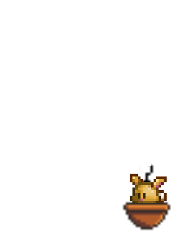
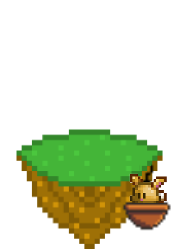
Added in images for all categories, along with unoptimized jQuery functions that allow users to try on items

Changed region(s): [[0.0852, 0.502, 0.9375, 1.0]]

diff --git a/public/js/shop.js b/public/js/shop.js
@@ -1,28 +1,129 @@
+
+// var bg = ["city.png", "darkblue.png", "night.png", "pixelatedbg.png", "sunset.png"];
+
+var url = "../images/";
+var active ="avatar";
+
 $(document).ready(() => {
 	/** On page load, plays avatar animation */
 	window.onload = function() {     
 		$('#avatar').toggleClass('bounceIn');
   };
 
-	$('#shopAvatar').click(() =>{
-		$('#shopPlatform').css("background-color", "rgba(255,255,255, 0.75)");
-		$('#shopBackground').css("background-color", "rgba(255,255,255, 0.75)");
-		$('#shopAvatar').css("background-color", "#9CD6D6");
-		
-	})  
+/** THIS CODE IS VERY BRUTE FORCE. WILL OPTIMIZE LATER (PROBABLY LOL DEPENDS ON TIME) <3 STELLA */
+$('#shopBackground').click(() => {
+	$('#shopPlatform').css("background-color", "rgba(255,255,255, 0.75)");
+	$('#shopAvatar').css("background-color", "rgba(255,255,255, 0.75)");
+	$('#shopBackground').css("background-color", "#48748E");
+	$('#item1').attr("src", "../images/bg/default.png");
+	$('#item2').attr("src", "../images/bg/city.png");
+	$('#item3').attr("src", "../images/bg/darkblue.png");
+	$('#item4').attr("src", "../images/bg/night.png");
+	$('#item5').attr("src", "../images/bg/pixelatedbg.png");
+	$('#item6').attr("src", "../images/bg/sunset.png");
+	active = "bg";
+})
 
-	$('#shopPlatform').click(() => {
-		$('#shopAvatar').css("background-color", "rgba(255,255,255, 0.75)");
-		$('#shopBackground').css("background-color", "rgba(255,255,255, 0.75)");
-		$('#shopPlatform').css("background-color", "#9CD6D6");
-		
-	})
+$('#shopAvatar').click(() =>{
+	$('#shopPlatform').css("background-color", "rgba(255,255,255, 0.75)");
+	$('#shopBackground').css("background-color", "rgba(255,255,255, 0.75)");
+	$('#shopAvatar').css("background-color", "#48748E");
+	$('#item1').attr("src", "../images/avatar/default.png");
+	$('#item2').attr("src", "../images/avatar/greenChar.png");
+	$('#item3').attr("src", "../images/avatar/greyChar.png");
+	$('#item4').attr("src", "../images/avatar/redChar.png");
+	$('#item5').attr("src", "../images/avatar/yellowChar.png");
+	$('#item6').attr("src", "../images/avatar/blueChar.png");
+	active ="avatar";
+})  
 
-	$('#shopBackground').click(() => {
-		$('#shopPlatform').css("background-color", "rgba(255,255,255, 0.75)");
-		$('#shopAvatar').css("background-color", "rgba(255,255,255, 0.75)");
-		$('#shopBackground').css("background-color", "#9CD6D6");
-		
-	})
+$('#shopPlatform').click(() => {
+	$('#shopAvatar').css("background-color", "rgba(255,255,255, 0.75)");
+	$('#shopBackground').css("background-color", "rgba(255,255,255, 0.75)");
+	$('#shopPlatform').css("background-color", "#48748E");
+	$('#item1').attr("src", "../images/platform/default.png");
+	$('#item2').attr("src", "../images/platform/pinkplatform.png");
+	$('#item3').attr("src", "../images/platform/purpleplatform.png");
+	$('#item4').attr("src", "../images/platform/rabbitpet.png");
+	$('#item5').attr("src", "../images/platform/duckpet.png");
+	$('#item6').attr("src", "../images/platform/birdpet.png");
+	active ="platform";
+})
+
+$('#item1').click(() => {
+	clearSelect();
+	$('#item1').parent().css("background-color", "#48748E");
+	if(active == "avatar")
+		$("#char").prop("src", "../images/avatar/default.png");
+	else if (active == "platform")
+		$("#char").css("background-image", "url(../images/platform/default.png)");
+	else if (active == "bg")
+		$("body").css("background-image", "url(../images/bg/default.png)");
+})
+
+$('#item2').click(() => {
+	clearSelect();
+	$('#item2').parent().css("background-color", "#48748E");
+	if(active == "avatar")
+		$("#char").prop("src", "../images/avatar/greenChar.png");
+	else if (active == "platform")
+		$("#char").css("background-image", "url(../images/platform/pinkplatform.png)");
+	else if (active == "bg")
+		$("body").css("background-image", "url(../images/bg/city.png)");
+})
+
+$('#item3').click(() => {
+	clearSelect();
+	$('#item3').parent().css("background-color", "#48748E");
+	if(active == "avatar")
+		$("#char").prop("src", "../images/avatar/greyChar.png");
+	else if (active == "platform")
+		$("#char").css("background-image", "url(../images/platform/purpleplatform.png)");
+	else if (active == "bg")
+		$("body").css("background-image", "url(../images/bg/darkblue.png)");
+})
+
+$('#item4').click(() => {
+	clearSelect();
+	$('#item4').parent().css("background-color", "#48748E");
+	if(active == "avatar")
+		$("#char").prop("src", "../images/avatar/redChar.png");
+	else if (active == "platform")
+		$("#char").css("background-image", "url(../images/platform/rabbitpet.png)");
+	else if (active == "bg")
+		$("body").css("background-image", "url(../images/bg/night.png)");
+})
+
+$('#item5').click(() => {
+	clearSelect();
+	$('#item5').parent().css("background-color", "#48748E");
+	if(active == "avatar")
+		$("#char").prop("src", "../images/avatar/yellowChar.png");
+	else if (active == "platform")
+		$("#char").css("background-image", "url(../images/platform/duckpet.png)");
+	else if (active == "bg")
+		$("body").css("background-image", "url(../images/bg/pixelatedbg.png)");
+})
+
+$('#item6').click(() => {
+	clearSelect();
+	$('#item6').parent().css("background-color", "#48748E");
+	if(active == "avatar")
+		$("#char").prop("src", "../images/avatar/blueChar.png");
+	else if (active == "platform")
+		$("#char").css("background-image", "url(../images/platform/birdpet.png)");
+	else if (active == "bg")
+		$("body").css("background-image", "url(../images/bg/sunset.png)");
+})
+
+function clearSelect(){
+	$('#item1').parent().css("background-color", "white");
+	$('#item2').parent().css("background-color", "white");
+	$('#item3').parent().css("background-color", "white");
+	$('#item4').parent().css("background-color", "white");
+	$('#item5').parent().css("background-color", "white");
+	$('#item6').parent().css("background-color", "white");
+}
+
 
 });

diff --git a/public/views/shop.html b/public/views/shop.html
@@ -12,6 +12,10 @@
     <link href="https://fonts.googleapis.com/css?family=Press+Start+2P" rel="stylesheet">
     <title>EcoQuest</title>
     <style>
+        #shopAvatar{
+            background-color: #9CD6D6;
+        }
+
         #mainpagecon {
             height: 300px;
         }
@@ -28,7 +32,7 @@
         }
         .carousel .carousel-item>img {
             width: 64%;
-                border: 9px solid black;
+            border: 9px solid black;
             height:64%;
         }
         .carousel-item img{
@@ -75,17 +79,17 @@
       </div>
 
     </div>
-  <div class="carousel">
+  <div id='slideAvatar' class="carousel">
     <div class="carousel-item" href="#one!">
-        <div class="singleGalleryTitle">Team Logo</div>
-            <img src="../images/five_alive.jpg">
+        <div class="singleGalleryTitle">Default</div>
+            <img id='item1' src="../images/avatar/default.png">
         <div class="singleGalleryItemDescription"> Cost: $99 million </div>
     </div>
-    <div class="carousel-item" href="#two!"><img src="../images/five_alive.jpg"></div>
-    <div class="carousel-item" href="#three!"><img src="../images/five_alive.jpg"></div>
-    <div class="carousel-item" href="#four!"><img src="../images/five_alive.jpg"></div>
-    <div class="carousel-item" href="#five!"><img src="../images/five_alive.jpg"></div>
-    <div class="carousel-item" href="#six!"><img src="../images/five_alive.jpg"></div>
+    <div class="carousel-item" href="#two!"><img id='item2' src="../images/avatar/greenChar.png"></div>
+    <div class="carousel-item" href="#three!"><img id='item3'src="../images/avatar/greyChar.png"></div>
+    <div class="carousel-item" href="#four!"><img id='item4' src="../images/avatar/redChar.png"></div>
+    <div class="carousel-item" href="#five!"><img id='item5' src="../images/avatar/yellowChar.png"></div>
+    <div class="carousel-item" href="#six!"><img id='item6' src="../images/avatar/blueChar.png"></div>
   </div>
 
     <script src="http://ajax.googleapis.com/ajax/libs/jquery/3.3.1/jquery.min.js"></script>

diff --git a/public/js/myCards.js b/public/js/myCards.js
@@ -6,15 +6,15 @@ $(document).ready(() => {
 
     /** Dummy function that will add dummy cards to screen */
     $('#cardsCon').click(()=>{
-      const card = document.createElement('div');
+      var card = document.createElement('div');
       card.setAttribute('class', 'card');
 
-      const h5 = document.createElement('h5');
+      var h5 = document.createElement('h5');
       $(h5).css("padding-left", "8px");
       $(h5).css("padding-top", "3px");
       h5.textContent = question[0];
 
-      const p = document.createElement('p');
+      var p = document.createElement('p');
       $(p).css("padding-left", "8px");
       p.textContent = `${answer[0]}...`;
 
